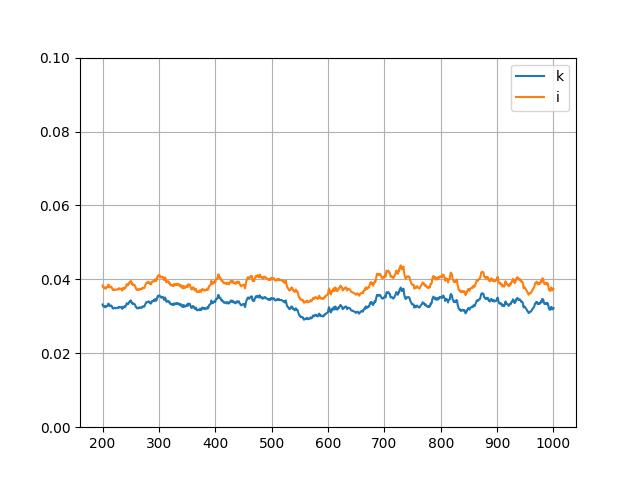
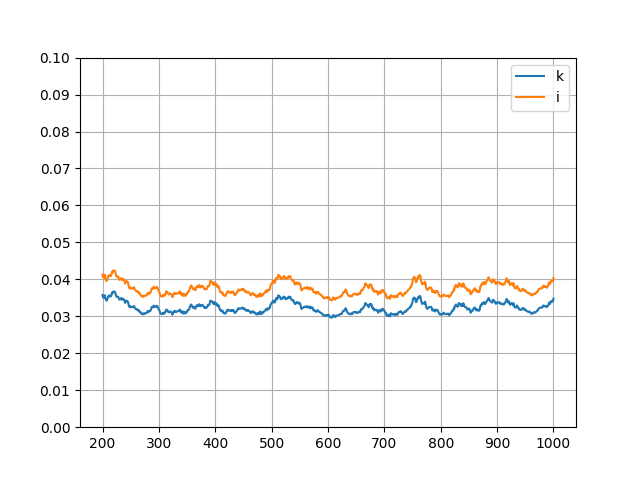
backup

diff --git a/ffforcing-acc.cpp b/ffforcing-acc.cpp
@@ -57,7 +57,7 @@ int                 TAVG_NSTEP = 0;
 int                 STATIC_NSTEP = 0;
 
 const static double LOW_PASS = 2.;
-const static double FORCING_EFK = 5e-3;
+const static double FORCING_EFK = 1e-3;
 
 random_device RD;
 default_random_engine GEN(RD());
